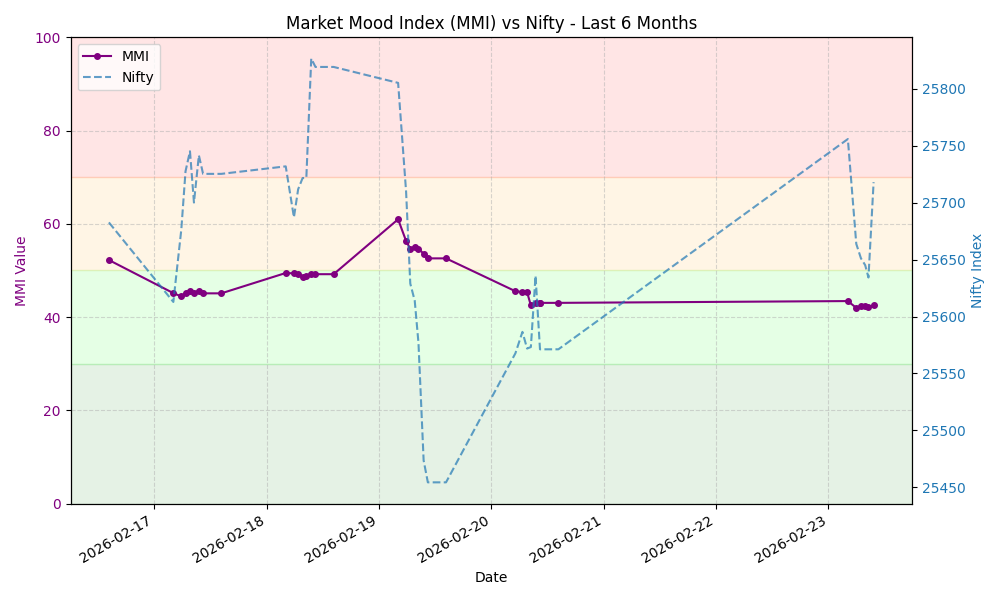
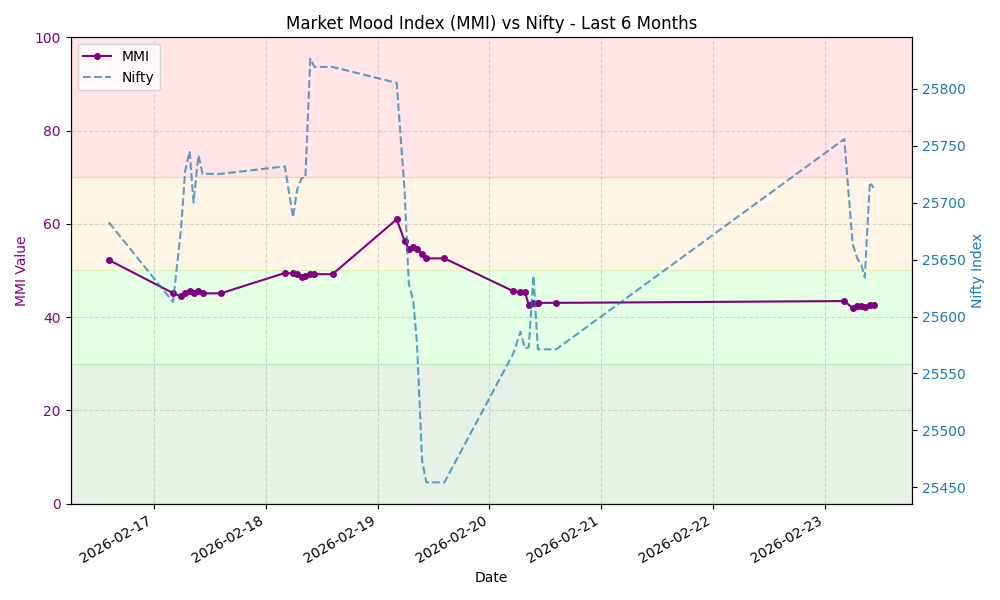
Update MMI data and chart

diff --git a/README.md b/README.md
@@ -7,8 +7,8 @@ This repository automatically fetches the MMI value, stores the history, and gen
 
 ## Latest MMI Value
 
-**42.50** - **Fear**
-<small>Last Updated: 2026-02-23 09:39 UTC</small>
+**42.55** - **Fear**
+<small>Last Updated: 2026-02-23 10:27 UTC</small>
 
 ## MMI Trend (Last 30 Days)
 
